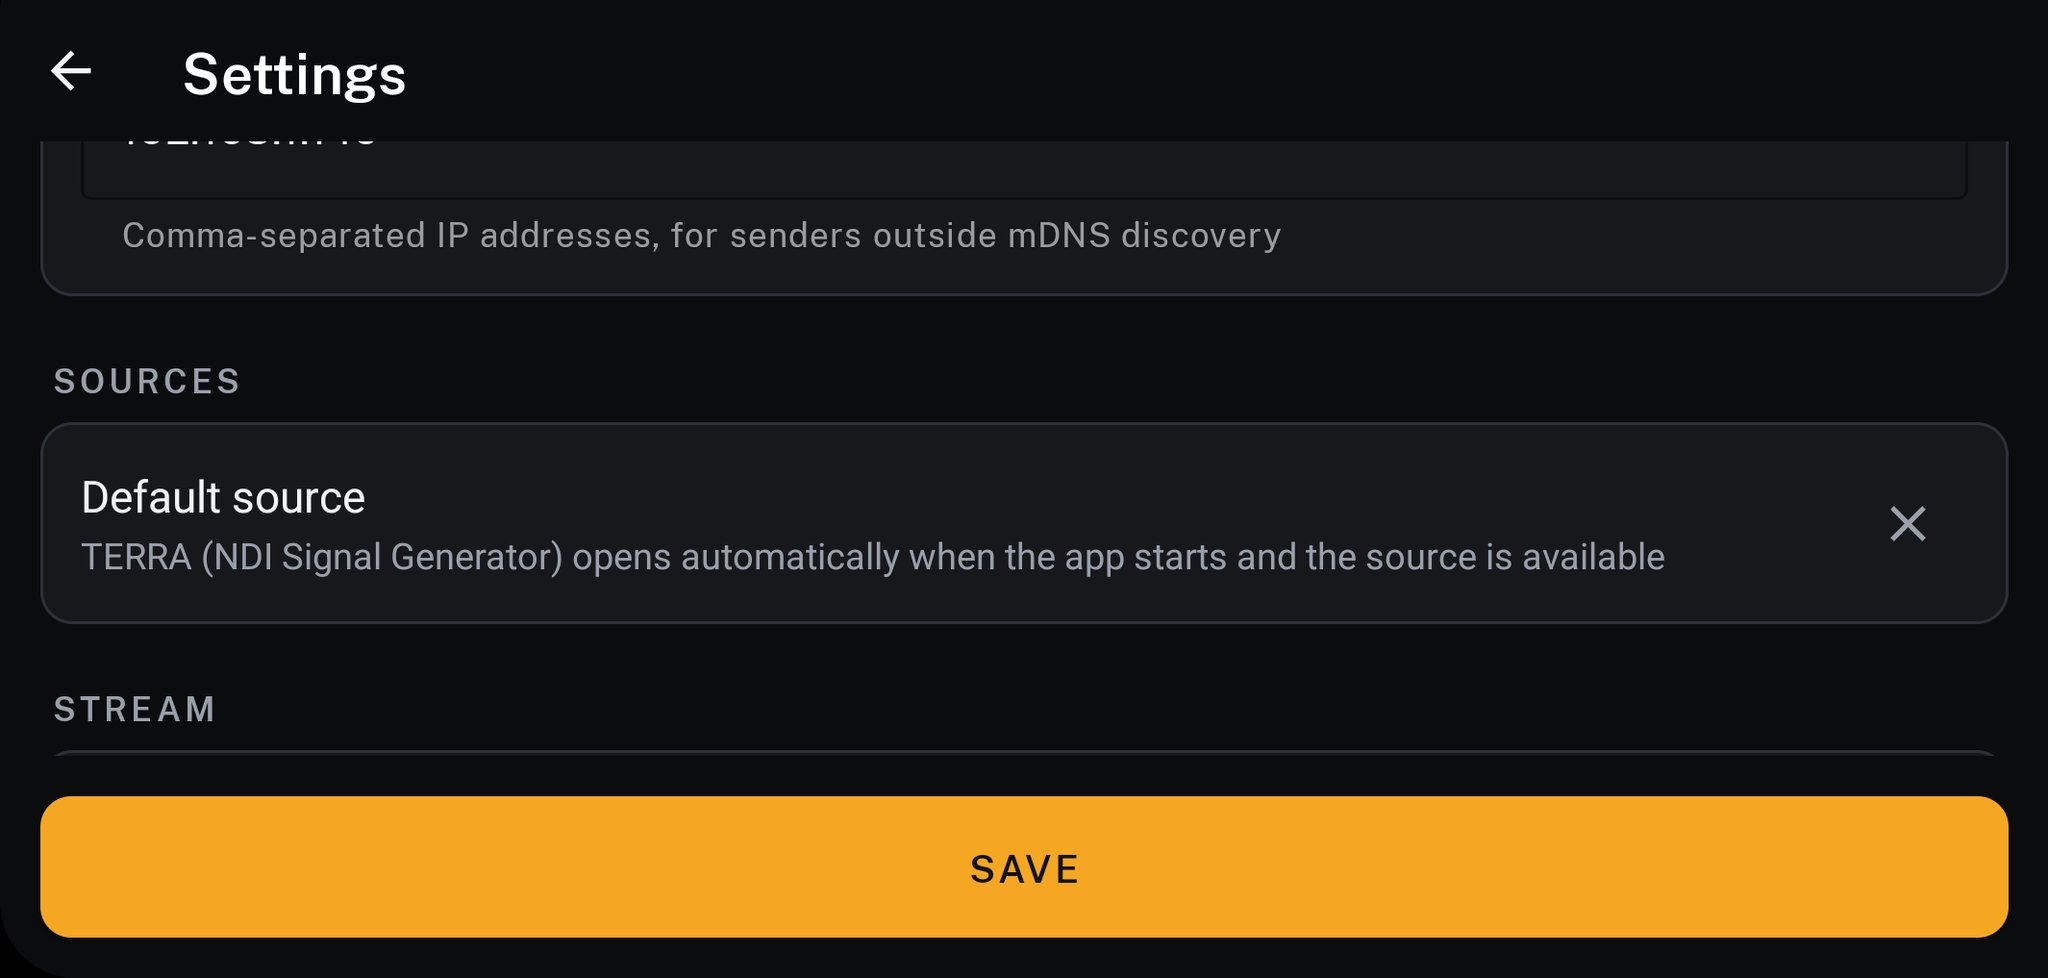
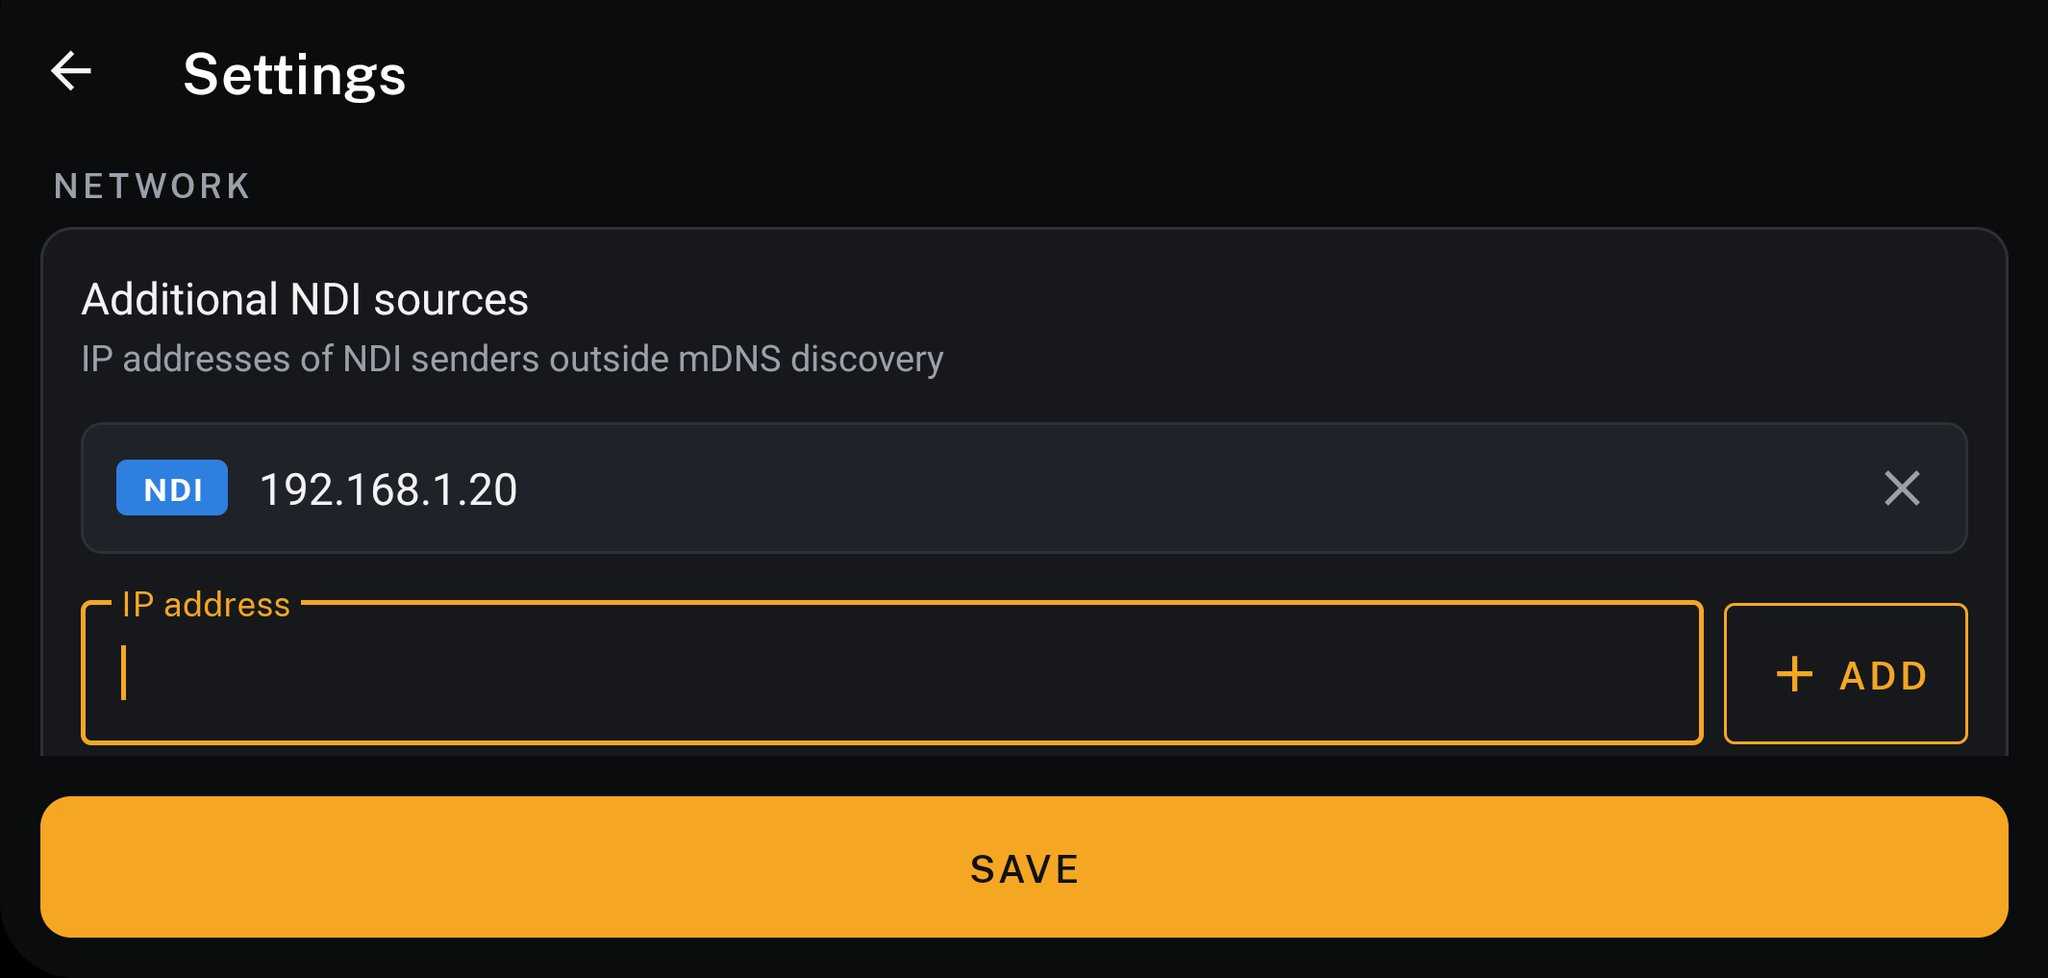
Show the IP address list in the README
Replace the settings screenshot with the new list of additional NDI
sources and move it next to their description.

diff --git a/README.md b/README.md
@@ -17,7 +17,10 @@ via USB. The list updates itself in the background, pull down to refresh it righ
 - **NDI® High Bandwidth Monitoring**
     - Supports NDI® High Bandwidth sources
     - Since NDI® can be network-intensive, using a **USB-C Ethernet adapter** is strongly recommended.
-    - NDI® senders outside mDNS discovery can be added by their IP address in the Settings.
+    - NDI® senders outside mDNS discovery can be added by their IP address in the Settings. The dot after
+      a full block of three digits is added for you. Changes apply right away.
+
+      ![Additional NDI sources in the settings](img/settings.jpeg)
     - **NDI® HX** is currently not supported. I invested some effort and implemented
   a working prototype. However, in order to receive NDI® HX streams for
   longer than 5 minutes, you need currently a NDI® Advanced SDK license.
@@ -70,8 +73,6 @@ You can enable Low Bandwidth Mode in the app’s Settings (gear icon on the sour
 
 Viewer Mode shows only the picture: monitoring tools, overlays and stream info are hidden, only the close and audio
 buttons remain. It can be enabled in the Settings.
-
-![Settings](img/settings.jpeg)
 
 ---
 
